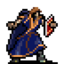
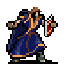
add dead sprites

Changed region(s): [[0.0938, 0.0938, 0.9062, 1.0], [0.1875, 0.6875, 0.2812, 0.7812]]

diff --git a/src/tilthenightends/player.py b/src/tilthenightends/player.py
@@ -49,6 +49,7 @@ class Player:
         self.attack = 0.0
         self.radius = 20.0
         self._closest_monster = None
+        self.respawn_time = np.inf
 
         self.levels = {
             # "attack": 0,
@@ -94,6 +95,11 @@ class Player:
             sprite_path=config.resources / "heroes" / f"{self.hero}.png",
             positions=np.array([[self.x, self.y]]),
         )
+        self.dead_avatar = make_sprites(
+            sprite_path=config.resources / "heroes" / f"{self.hero}_dead.png",
+            positions=np.array([[self.x, self.y]]),
+        )
+        self.dead_avatar.setOpacity(0.0)
 
     def execute_bot_instructions(self, direction: Vector | Towards | None):
         if direction is None:
@@ -106,6 +112,13 @@ class Player:
         # self.vector = np.array(
         #     [int(move.right) - int(move.left), int(move.up) - int(move.down)]
         # )
+
+    def maybe_respawn(self, t):
+        if t > self.respawn_time:
+            self.health = self.max_health * 0.5
+            self.respawn_time = np.inf
+            self.dead_avatar.setOpacity(0.0)
+            self.avatar.setOpacity(1.0)
 
     @property
     def alive(self) -> bool:
@@ -120,6 +133,7 @@ class Player:
         # self.avatar.position = [self.x, self.y, 0.0]
         # print(f"Player moved to {self.x}, {self.y}.")
         self.avatar.setData(pos=np.array([[self.x, self.y]]))
+        # self.dead_avatar.setData(pos=np.array([[self.x, self.y]]))
 
     @property
     def position(self) -> np.ndarray:
@@ -138,6 +152,10 @@ class Player:
 
     def die(self, t):
         # Start countdown to respawn
+        self.respawn_time = t + 15.0
+        self.dead_avatar.setOpacity(1.0)
+        self.dead_avatar.setData(pos=np.array([[self.x, self.y]]))
+        self.avatar.setOpacity(0.0)
         return
 
     def as_dict(self):

diff --git a/src/tilthenightends/engine.py b/src/tilthenightends/engine.py
@@ -178,6 +178,7 @@ class Engine:
 
         for player in self.players.values():
             self.graphics.add(player.avatar)
+            self.graphics.add(player.dead_avatar)
             self.graphics.add(player.weapon.sprites)
             # player.weapon.fire(0, 0, 0)
 
@@ -449,7 +450,8 @@ class Engine:
         # print("dt", t - self._previous_t)
         # self._previous_t = t
         self.call_player_bots(t=t, dt=self.dt)
-        for player in self.players.values():
+        alive_players = [p for p in self.players.values() if p.alive]
+        for player in alive_players:
             player.move(self.dt)
             if t > player.weapon.timer:
                 player.weapon.fire(player.position, t)
@@ -462,7 +464,7 @@ class Engine:
         #     self.graphics.controller.target = lookat
         #     self.graphics.camera.lookAt(lookat)
         for horde in self.monsters:
-            horde.move(t, self.dt, players=self.players.values())
+            horde.move(t, self.dt, players=alive_players)
 
         if self._follow:  # and (int(t * 3) % 3 == 0):
             self.move_camera()

diff --git a/src/tilthenightends/weapons.py b/src/tilthenightends/weapons.py
@@ -451,7 +451,7 @@ class ProximityMine(Weapon):
             damage=100,
             speed=0.0,
             health=1,
-            longevity=60.0,
+            longevity=6.0,
             radius=16,
             **kwargs,
         )
